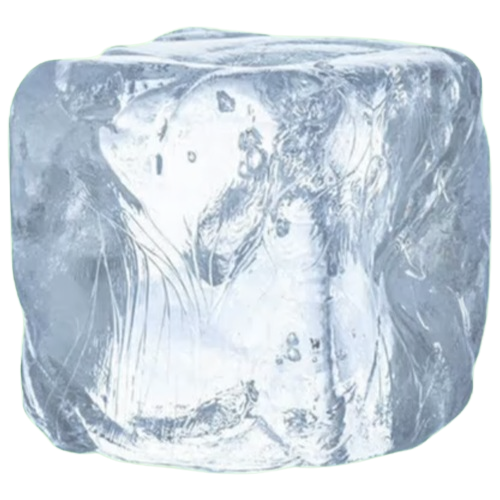
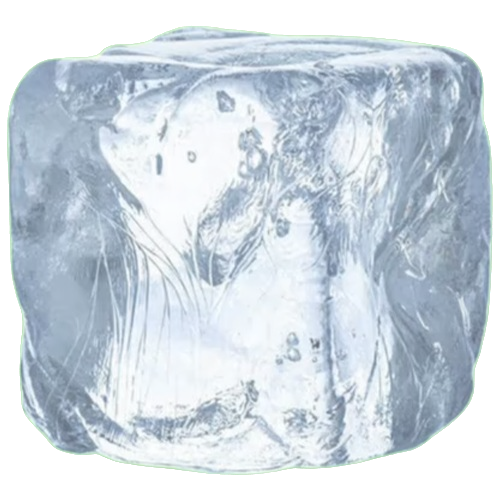
small change

diff --git a/main.py b/main.py
@@ -26,13 +26,19 @@ class GetIce:
         percent = self.get_percent()
 
         ice = Image.open(self.img_path+"/ice.png")
+        bg_ice = Image.open(self.img_path+"/bg_ice.png")
         ldh = Image.open(self.img_path+"/ldh.png")
         img = Image.new("RGBA", (ldh.width, ldh.height), (255, 255, 255,0))
-        img.paste(ldh, (0, 0), ldh)
+
         if percent > 0:
-            t = ice.height - int((ice.height - self.top - self.bottom) * percent + self.bottom + self.bottom)
-            cutted = ice.crop((0, t, ice.width, ice.height))
-            img.paste(cutted, (0,t), cutted)
+            h = ice.height - int((ice.height - self.top - self.bottom) * percent + self.bottom + self.bottom)
+            t = bg_ice.crop((0, h, bg_ice.width, bg_ice.height))
+            img.paste(t, (0,h), t)
+            img.paste(ldh, (0, 0), ldh)
+            t = ice.crop((0, h, ice.width, ice.height))
+            img.paste(t, (0, h), t)
+        else:
+            img.paste(ldh, (0, 0), ldh)
         return img
 
 

diff --git a/library/Counting.py b/library/Counting.py
@@ -1,7 +1,6 @@
 from datetime import datetime
 from os import path
 from .EW2_Count import *
-from os import listdir
 
 
 class GetCountingPhoto:
@@ -88,7 +87,6 @@ class GetCountingPhoto:
         cn,en = self.get_unit_text()
         img = EW2_Count()
         img.set_fonts(path.join(self.font_path,"text.ttf"),path.join(self.font_path,"number.otf"),path.join(self.font_path,"number.otf"),50)
-        print(listdir(self.font_path))
         img.set_text(("距刘德华解冻", "还剩"), ("ANDY LAU WILL THAW", f"IN {self.left_time} {en}"), self.left_time, cn)
 
         # 浅色版

diff --git a/README.md b/README.md
@@ -23,9 +23,11 @@ main
 │   ├── text.ttf 中文字体
 │   └── 字体原名称.txt 字体原名称
 │
+│
 ├── img
 │   ├── ldh.png 刘德华图片
-│   ├── ice.png 冰块(不透明度70%)图片
+│   ├── ice.png 冰块(不透明度60%)图片
+│   └── bg_ice.png 冰块背景图片
 │
 └─library
     ├── Counting.py 倒计时计算
